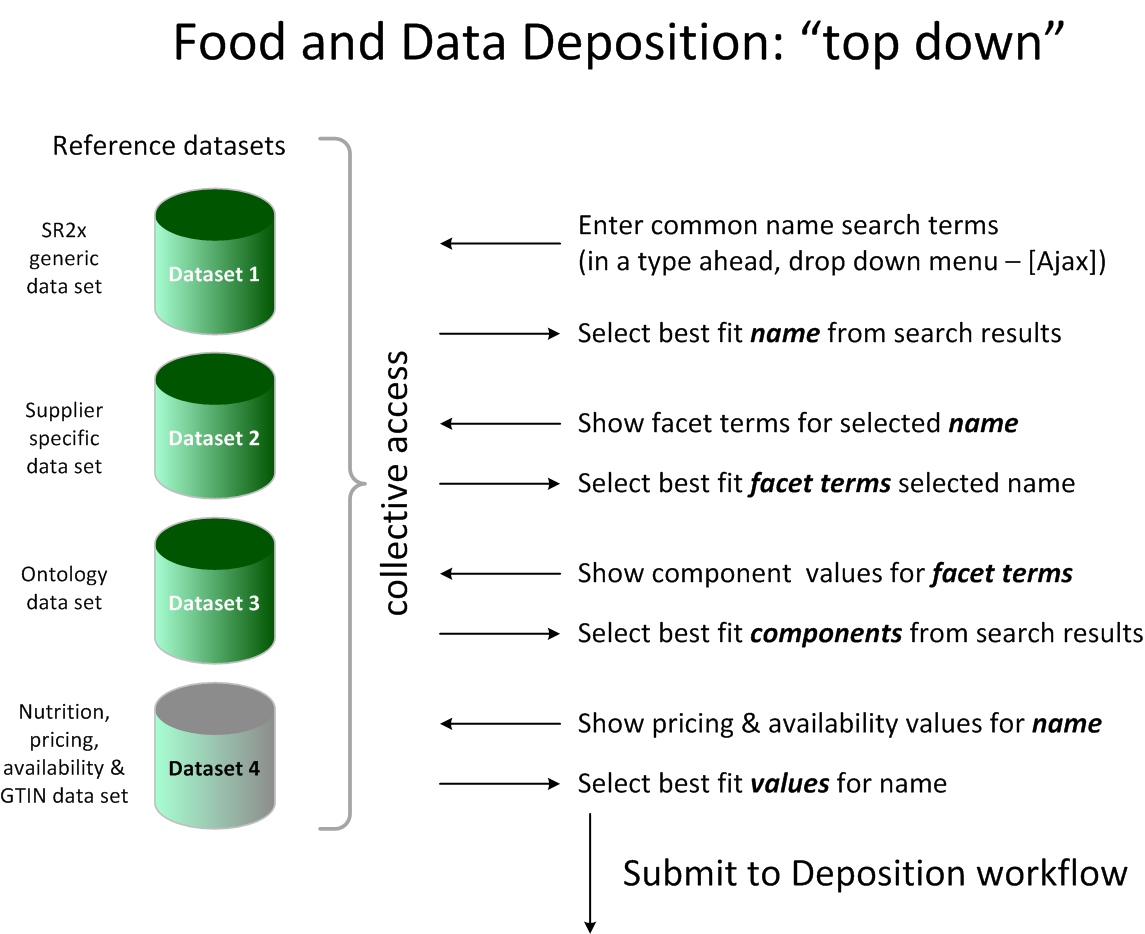
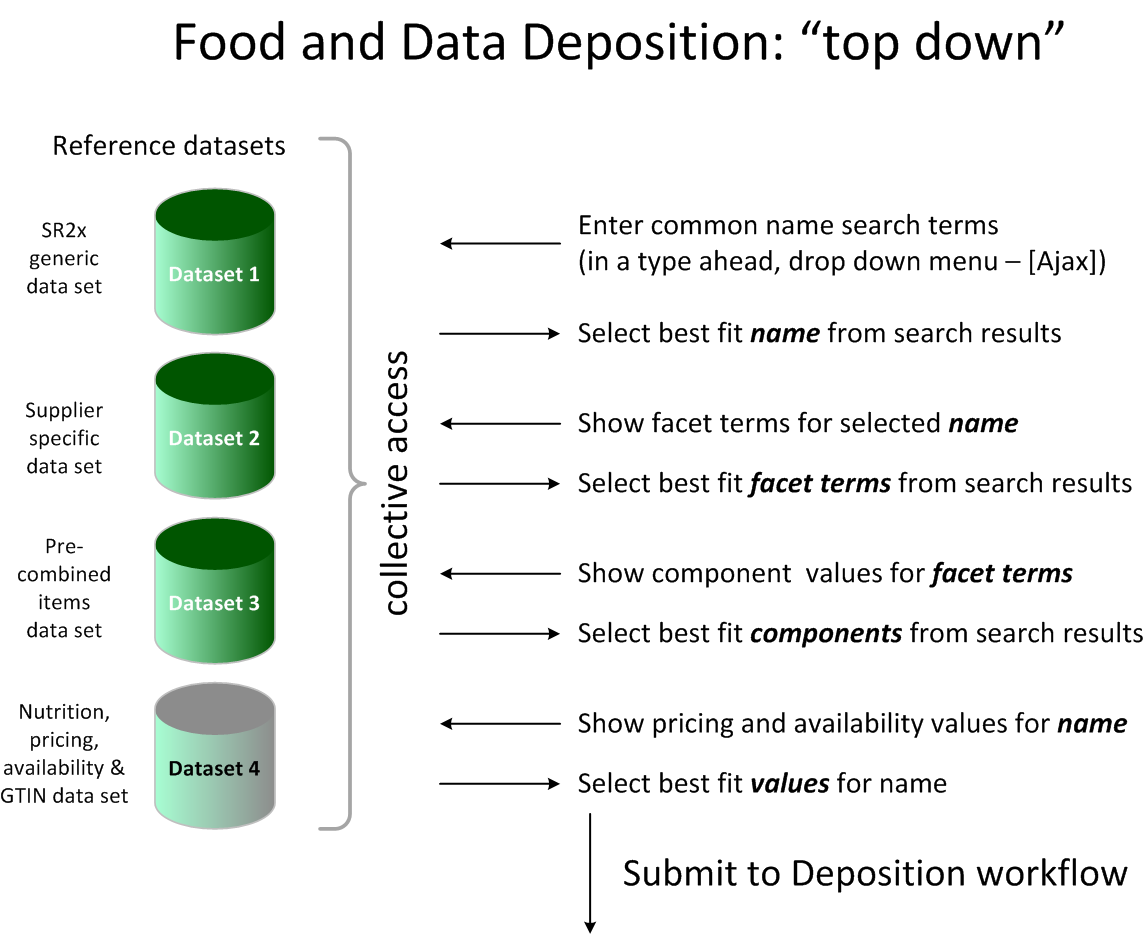
yet another nudge

Changed region(s): [[0.6419, 0.7452, 0.9782, 0.8073], [0.7642, 0.4968, 1.0, 0.5278], [0.0, 0.5589, 0.0917, 0.6831]]

diff --git a/$_02-core-10-deposition-OnLine-OnMessage.rst b/$_02-core-10-deposition-OnLine-OnMessage.rst
@@ -1,26 +1,55 @@
 
 .. _$_02-core-10-deposition-OnLine-OnMessage:
 
-====================
-OnLine and OnMessage
-====================
+===============================
+OnLine and OnMessage Deposition
+===============================
 
-Process
--------
+Table of contents for OnLine and OnMessage Deposition
+-----------------------------------------------------
 
-Explanation.
+.. contents::
+   :depth: 3
+   :local:
+
+--------------------
+Deposition Work-flow
+--------------------
+
+A :ref:`Depositor <terms-Depositor>` |_| registers information via:
+
+1. :ref:`OnLine <terms-Deposition-OnLine>` |_| interface, or
+
+2. :ref:`OnMessage <terms-Deposition-OnMessage>` |_| interface.
+
+:ref:`OnTop <terms-OnTop>` |_| parser interacts with :ref:`ontologies <terms-Ontology>` to properly classify :ref:`deposit <terms-Deposit>`.
+
+:ref:`USDA select <terms-USDA-Select>` |_| and :ref:`USDA prime <terms-USDA-Prime>` |_| data is complemented with data generated by :ref:`USDA mathematics <terms-USDA-Mathematics>`.
+
+Ontomatica :ref:`graphs <terms-Graph>` |_| (representing things or events, and causal relationships between them) are updated.
+
+Data then is stored on :ref:`MySQL <terms-MySQL>` |_| and :ref:`REST <terms-REST>` servers.
 
 .. figure:: $_02-core-10-deposition-OnLine-OnMessage_.png
    :align: center
-   
-   OnLine and OnMessage Deposition
 
-Integration of GS1, GTIN and Vocal Data
----------------------------------------
+-----------------------------------------
+Harmonization of GS1, GTIN and Vocal Data
+-----------------------------------------
 
 Explanation.
 
-.. figure:: $_02-core-10-deposition-OnLine-OnMessage-GTIN-Vocal_.png
+.. figure:: $_02-core-10-deposition-OnLine-OnMessage-GTIN-Vocal_2_.png
    :align: center
-   
+
+---------------------------------------
+Integration of GS1, GTIN and Vocal Data
+---------------------------------------
+
+OnMessage enables construction of a comprehensive food record that includes bar code information (GTIN) together with GS1 data (Brick codes), Vocal terms and related data.
+
+.. figure:: $_02-core-10-deposition-OnLine-OnMessage-GTIN-Vocal_1_.png
+   :align: center
+
+.. |_| unicode:: 0x80
 

diff --git a/$_02-core-10-deposition-top-down.rst b/$_02-core-10-deposition-top-down.rst
@@ -5,16 +5,32 @@
 OnLine Top Down Deposition
 ==========================
 
+Table of contents for OnLine Top Down Deposition
+------------------------------------------------
+
+.. contents::
+   :depth: 3
+   :local:
+
+-------
 Process
 -------
 
+Template-driven process that classifies a food by its similarity to another food.
+
+Templates are :ref:`pre-combined items <terms-Pre-Combined-Items>` specified by ontology terms.
+
+One ontology used by Ontomatica is `Simple Knowledge Object Sharing <http://www.w3.org/2004/02/skos/core#>`_ (SKOS) :cite:`6050`. Example of applying SKOS:
+
+- Initiate :ref:`conversation <terms-Conversation>` by identifying an exact match :class:`skos:exactMatch` or close match :class:`skos:closeMatch` for :ref:`deposition <terms-Deposition>`.
+
+
 .. figure:: $_02-core-10-deposition-top-down_.png
    :align: center
-   
-   OnLine Top Down Deposition
 
-Pre-Combined Items
-------------------
+----------------------------
+Examples: Pre-Combined Items
+----------------------------
 
 Explanation.
 
@@ -107,4 +123,6 @@ Explanation.
    "Yogurt", "A0101 B1201 C0235 E0119 H0101"
    "Water, Distilled", "A0112 B1217 C0005 E0123 H0270"
    "Whole Wheat Bread, Loaf", "A0178 B1312 C0133 E0146 H0256"
+
+.. |_| unicode:: 0x80
 

diff --git a/$_02-core-10-deposition-bottom-up.rst b/$_02-core-10-deposition-bottom-up.rst
@@ -8,13 +8,31 @@ OnLine Bottom Up Deposition
 Process
 -------
 
+Ontology driven process that classifies a food according to precise ontology terms.
+
+- Initiate :ref:`conversation <terms-Conversation>` |_| by traversing a :ref:`graph <terms-Graph>` |_| and selecting appropriate terms.
+
+- Use a broad term when there is insufficient information to use a more narrow, precise term.
+
+:ref:`Conversation <terms-Conversation>` |_| has three stages:
+
+- identify unique terms [source; part of source; origin of source]
+
+- identify combinations of terms that are :ref:`jointWith <terms-Joint-With>` |_| and :ref:`disjointWith <terms-Disjoint-With>`
+
+- identify data associated with ontology terms.
+
+Concept
+-------
+
 .. figure:: $_02-core-10-deposition-bottom-up_.png
    :align: center
    
-   OnLine Bottom Up Deposition
 
 Vocal Terms
 -----------
 
 terms to support bottom-up
+
+.. |_| unicode:: 0x80
 

diff --git a/$_04-fda-3-label-claims.rst b/$_04-fda-3-label-claims.rst
@@ -14,10 +14,10 @@ FDA Specifications for Food Label Claims
 ----------------------------------------
 
 .. csv-table::
-   :header: "Claim class", "Claim type", "Claim phrase"
+   :header: "Claim class", "Label claim", "Claim determination"
    :widths: 10, 10, 15
 
-   "Low sodium", "Salt free", "Less than 5 milligrams sodium per serving."
+   "Sodium content", "Salt free", "Less than 5 milligrams sodium per serving."
    "", "Sodium free", "Less than 5 milligrams sodium per serving."
    "", "No Salt added", "No salt added during processing; does not necessarily mean sodium free."
    "", "Very Low Sodium", "35 milligrams or less sodium per serving."

diff --git a/$_04-fda-1-coverage.rst b/$_04-fda-1-coverage.rst
@@ -5,7 +5,7 @@
 FDA Food Labeling Specifications
 ================================
 
-FDA food labeling regulations are defined for the Jurisdiction Facet USA.
+The following food labeling regulations are specified by the :ref:`authority <terms-Authority>` |_| **FDA** that is part of :class:`[schema:partOf]` the :ref:`jurisdiction <terms-Jurisdiction>` |_| **USA**.
 
 Ontomatica Coverage
 -------------------

diff --git a/$_02-core-10-deposition.rst b/$_02-core-10-deposition.rst
@@ -15,7 +15,7 @@ Table of contents for Data Depository
 ^^^^^^^^^^^^^^^^^^^^^^^^^^^^^^^^^^^^^
 
 .. toctree::
-   :maxdepth: 2
+   :maxdepth: 1
 
    $_02-core-10-deposition-OnLine-OnMessage.rst
    $_02-core-10-deposition-top-down.rst
